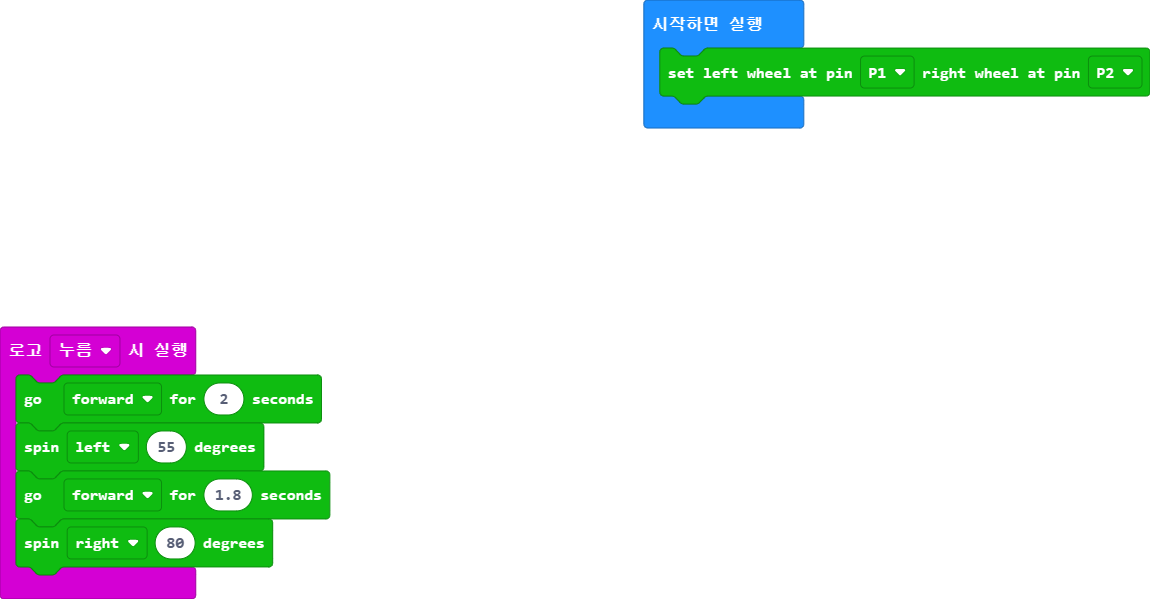
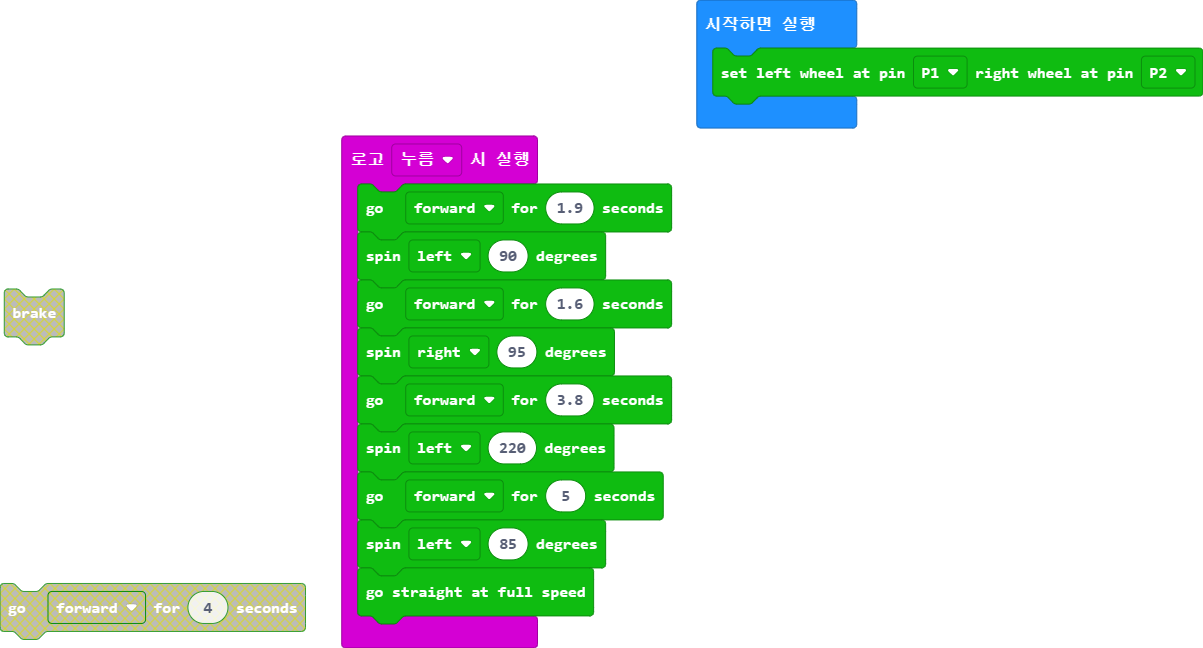
main.blocks, main.ts 업데이트하기

diff --git a/main.ts b/main.ts
@@ -1,7 +1,12 @@
 input.onLogoEvent(TouchButtonEvent.Pressed, function () {
-    RingbitCar.running_time(RingbitCar.Direction_run.forward, 2)
-    RingbitCar.steering_angle(RingbitCar.Direction_turn.left, 55)
-    RingbitCar.running_time(RingbitCar.Direction_run.forward, 1.8)
-    RingbitCar.steering_angle(RingbitCar.Direction_turn.right, 80)
+    RingbitCar.running_time(RingbitCar.Direction_run.forward, 1.9)
+    RingbitCar.steering_angle(RingbitCar.Direction_turn.left, 90)
+    RingbitCar.running_time(RingbitCar.Direction_run.forward, 1.6)
+    RingbitCar.steering_angle(RingbitCar.Direction_turn.right, 95)
+    RingbitCar.running_time(RingbitCar.Direction_run.forward, 3.8)
+    RingbitCar.steering_angle(RingbitCar.Direction_turn.left, 220)
+    RingbitCar.running_time(RingbitCar.Direction_run.forward, 5)
+    RingbitCar.steering_angle(RingbitCar.Direction_turn.left, 85)
+    RingbitCar.forward()
 })
 RingbitCar.init_wheel(AnalogPin.P1, AnalogPin.P2)
